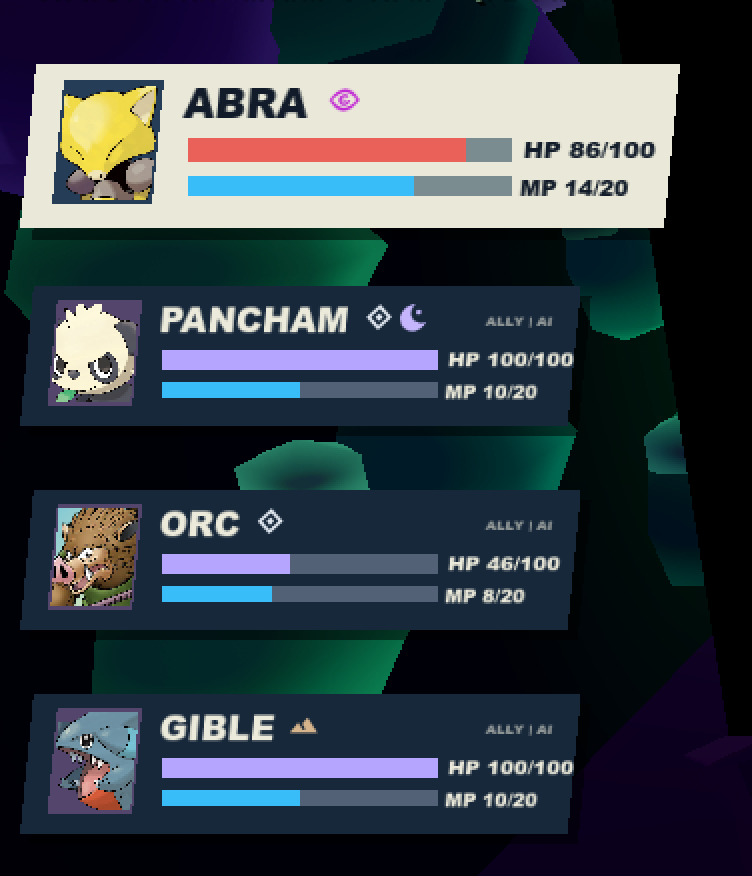
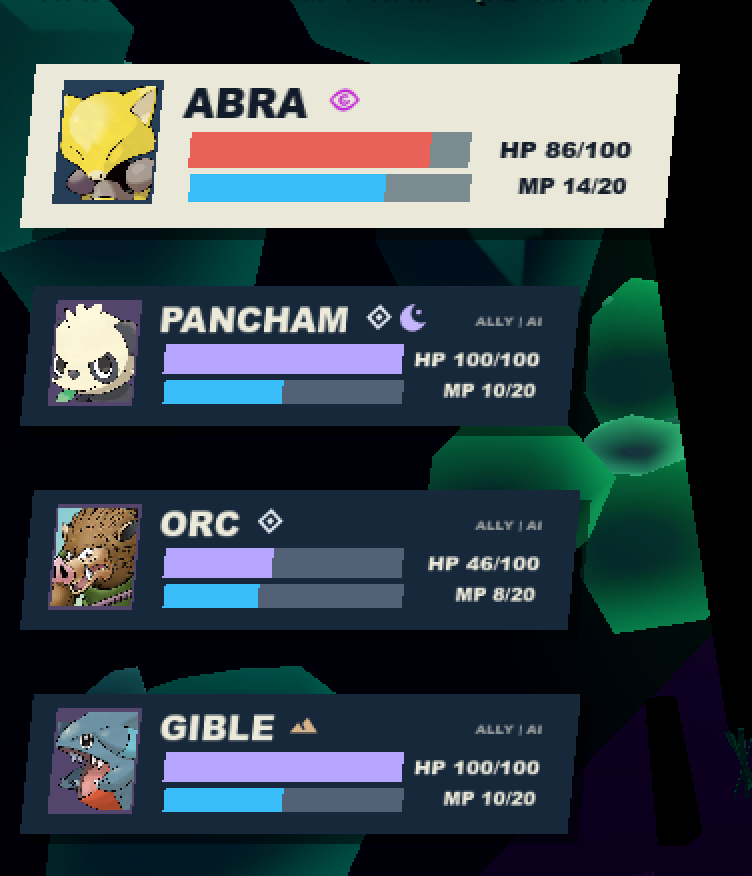
fix(exploration): fit overworld card values and align the text block to the card slant (D-1074)
The HP 100/100 value was wider than the old estimate and still crossed the slanted right edge. The HP/MP values are now right-aligned at x=310, so after the 8/82 body shear their right edge forms a line parallel to the card side with ~20 px of margin; HP 100/100 no longer leaks. The bars are now taller parallelograms (142x18 HP, 142x14 MP) drawn with the same body angle, and the text block's slanted right edge plus the element/name shear make the inner content follow the parallelogram. The card stays 330x104; Sugimori face crops, Gible demo card, Orc/DQT, battle/status/2D are untouched. HUD check and the isolated D-1063 audit pass; the main scene remains blocked by another session's tidal_surge_vfx parse errors. No push.

diff --git a/docs/decisoes/D-1074-cards-overworld-sugimori-barras-elementos.md b/docs/decisoes/D-1074-cards-overworld-sugimori-barras-elementos.md
@@ -33,10 +33,11 @@ Respostas às perguntas de esclarecimento:
 4. **Card fixo:** **330×104**, sem aumentar. O herói continua 1,0× e os aliados 0,85×. O Gible entra como **4º card demo** em (14, 394), 0,85×, com HP 100/100 e MP 10/20 (demo).
 5. **Barras e textos maiores:** preencher o espaço útil do card:
    - nome em **20 px** (era 18);
-   - HP: barra **162×12** (era 120×7), texto **12 px** (era 10);
-   - MP: barra **162×10** (era 120×5), texto **11 px** (era 9);
-   - textos de HP/MP à direita das barras, alinhados verticalmente com elas;
-   - **textos com o mesmo shear do corpo**: nome, ícones de elemento, `ALLY | AI` e números de HP/MP são desenhados sob `_body_shear()` (8 px em 82 px, pivô em y=18). As barras continuam horizontais; os textos ganham margem segura para não vazar da borda inclinada.
+   - HP: barra **142×18** (era 120×7), texto **12 px** (era 10);
+   - MP: barra **142×14** (era 120×5), texto **11 px** (era 9);
+   - valores de HP/MP **alinhados à direita em x=310**, formando uma borda direita inclinada paralela ao lado do card;
+   - **textos com o mesmo shear do corpo**: nome, ícones de elemento, `ALLY | AI` e números de HP/MP são desenhados sob `_body_shear()` (8 px em 82 px, pivô em y=18);
+   - **barras em paralelogramo**: desenhadas com `_slant` e o mesmo ângulo do card; a borda direita do bloco de texto e as barras ficam paralelas às laterais. Nada vaza da borda inclinada.
 6. **Ícones de elemento ao lado do nome:** até **2** ícones de 18×18 imediatamente após o nome, na mesma linha. Fonte: `res://assets/ui/icons/elements/*.svg`, com o mesmo mapa do battle (`FÍSICO→neutral`, `FOGO→fire`, `ÁGUA/GELO→water_ice`, `RAIO→electric`, `PSÍQUICO→psychic`, `VENENO→nature`, `SOM→sound`, `TERRA→earth`, `VENTO→wind`, `LUZ→light`, `TREVAS→dark`, `MYSTIC→mystic`). Cores de contraste: escuras no card creme do herói, claras no card azul dos aliados.
 7. **Elementos dos cards atuais:** ABRA = Psíquico; PANCHAM = Físico + Trevas; ORC = Físico (DQT, retrato atual); GIBLE = Terra.
 8. **O que não muda:** mini-mapa/bolinhas flat, Slime 0,49 m, NPCs sólidos D-1063, alerta “!”, câmera, batalha 3D, jogo 2D e regras.
@@ -45,8 +46,8 @@ Respostas às perguntas de esclarecimento:
 
 - **Sugimori com zoom no rosto:** Abra (crop 300,120–620,480), Pancham (300,40–980,800) e Gible (30,100–520,660) carregam no projeto principal; o card usa a região UV escolhida no mesmo `_slant_texture(pr.grow(-2.0), 5.0, ...)` das artes DQT.
 - **Orc/DQT:** `personagens/portraits/orc.png` (256×256) continua inteiro; nenhuma arte DQT foi trocada.
-- **Cards:** 330×104, herói 1,0×, aliados 0,85×. Nome 20 px; HP 162×12 com texto 12; MP 162×10 com texto 11; barras e textos ocupando a largura útil. Agora são **4 cards no party**: Abra, Pancham, Orc e Gible (Gible demo 100/100 + 10/20).
-- **Ângulo dos textos:** nome, ícones de elemento, `ALLY | AI` e HP/MP são desenhados com o mesmo shear do corpo (`8/82`, pivô y=18); as barras ficam horizontais. A margem direita foi aumentada (barra 162, texto em x=+10) para nenhum texto cruzar a borda inclinada.
+- **Cards:** 330×104, herói 1,0×, aliados 0,85×. Nome 20 px; HP 142×18 com texto 12; MP 142×14 com texto 11; valores alinhados à direita em x=310. Agora são **4 cards no party**: Abra, Pancham, Orc e Gible (Gible demo 100/100 + 10/20).
+- **Ângulo dos textos e blocos:** nome, ícones de elemento, `ALLY | AI` e HP/MP são desenhados com o mesmo shear do corpo (`8/82`, pivô y=18); os valores à direita formam uma borda inclinada paralela ao card. As barras de HP/MP são **paralelogramos** com o mesmo ângulo; nada cruza a borda (HP 100/100 fica com ~20 px de margem).
 - **Elementos:** Abra = Psíquico; Pancham = Físico + Trevas; Orc = Físico; Gible = Terra. Ícones 18×18 ao lado do nome, com o mesmo mapa do `BattleHud` (`FÍSICO→neutral`, `PSÍQUICO→psychic`, `TREVAS→dark`, `TERRA→earth`) e cores de contraste (escuras no creme, claras no azul).
 - **Prova:** captura isolada em `docs/referencias/exploracao/3d/murky_forest_hud_sugimori.png` e recorte dos quatro cards em `murky_forest_hud_sugimori_cards.png`; mostra Abra/Pancham/Gible com Sugimori em close, Orc com o retrato DQT, quatro cards no party, bolinhas flat e NPCs; os textos estão dentro da borda inclinada e com o mesmo shear do card.
 - **Verificação:** `--check-only` do HUD e carregamento dos assets no projeto principal; a captura foi feita no projeto isolado porque a janela do projeto principal ainda esbarra nos erros de parse de VFX de outra sessão. A cena principal em headless também está bloqueada no momento por erros de `tidal_surge_vfx.gd` de outra sessão; o HUD isolado e a auditoria D-1063 rodam sem erro.
@@ -65,11 +66,11 @@ Respostas às perguntas de esclarecimento:
 - **Janela do projeto principal:** a captura foi no isolado; o projeto principal carrega os assets, mas a janela e a cena headless ainda são bloqueadas pelos erros de VFX de outra sessão (`tidal_surge_vfx.gd`).
 - **Sugimori local:** a pasta `sugimori/` é ignorada pelo Git; se a arte faltar, o card cai no retrato antigo.
 - **Crop de rosto:** os retângulos são manuais; o Abra 3, Pancham 2 e Gible 2 foram escolhidos, mas não há detecção automática de rosto.
-- **Barras horizontais:** os textos recebem o shear do card, mas as barras de HP/MP continuam retas; se o criador quiser as barras inclinadas também, é uma decisão nova.
+- **Glifos:** o shear dos textos é o mesmo do card (8/82), então o ângulo dos glifos é leve; a borda direita do bloco e as barras são claramente paralelas. Se o criador quiser glifos mais inclinados, é uma decisão nova.
 - **Orc:** sem Sugimori; mantém o retrato DQT.
 - **Gible na party real:** o card é demo; não foi ligado a `GameState.party`.
 - **60 fps, mobile/web, outras resoluções** e batalha/status/menus (não tocados).
 
 ## Estado
 
-Teste implementado e corrigido no lab isolado; Abra/Pancham/Gible em close no rosto, textos com o shear do card e Gible como 4º card demo; prova em `murky_forest_hud_sugimori*`. Documentação registrada; commit local; **sem push**. Nada de combate/2D/DQT muda.
+Teste implementado e corrigido no lab isolado; Abra/Pancham/Gible em close no rosto, valores alinhados à direita com borda inclinada, barras em paralelogramo e Gible como 4º card demo; prova em `murky_forest_hud_sugimori*`. Documentação registrada; commit local; **sem push**. Nada de combate/2D/DQT muda.

diff --git a/docs/decisoes/README.md b/docs/decisoes/README.md
@@ -430,7 +430,7 @@ Fontes: **Conversa** = o que o criador disse (frase literal entre aspas); **PROM
 - [D-1064 — Mini-mapa só com bolinhas: azul, branco e vermelho](D-1064-minimapa-bolinhas-azul-branco-vermelho.md) — **teste implementado**: remove o ícone; jogador/aliados azuis (aliados menores), NPCs brancos e inimigos vermelhos; bolinhas 12/8/10/10, sem textura; substitui o ícone/tamanhos da D-1027/D-1037; HUD de HP/MP e alerta continuam.
 - [D-1071 — Slime 0,35× menor no overworld](D-1071-slime-035x-menor-no-overworld.md) — **teste implementado** via nó `SlimeOverworldScaler`: só no lab da Murky Forest, modelo/cápsula/agente/sombra/tag do Slime em 0,35× (1,4→0,49 m; cápsula 0,49 m); batalha 3D, jogo 2D, party e regras intactos; lab de pedra D-1023 fica em 1,4 m como referência; HUD/mini-mapa inalterados.
 - [D-1072 — Bolinhas flat e HUD de HP/MP no estilo dos cartões de batalha](D-1072-bolinhas-flat-e-hud-cartoes-batalha.md) — **teste implementado** via nó `ExplorationBattleHud`: remove o contorno das bolinhas (`dots_flat=true`); cards 330×104 do `UnitCard` (hero creme, aliados azul-escuro 0,85×, retrato/nome/HP/MP) no canto esquerdo; 1 card no solo e 3 no party; ATB/Burst/status/tanque de MP ficam de fora; HP/MP demo.
-- [D-1074 — Cards do overworld: retratos Sugimori com zoom no rosto, barras/textos maiores e ícones de elemento](D-1074-cards-overworld-sugimori-barras-elementos.md) — **teste implementado e corrigido**: só os cards do overworld; Abra (opção 3), Pancham (2) e Gible (2) com close no rosto das artes Sugimori (mesmo método DQT; card 330×104); Gible como 4º card demo; Orc/DQT inteiro; HP 162×12 texto 12, MP 162×10 texto 11, nome 20; textos com o mesmo shear do card e sem vazar; ícones de elemento ao lado do nome; batalha/status/2D intactos; provas em `docs/referencias/exploracao/3d/murky_forest_hud_sugimori*`.
+- [D-1074 — Cards do overworld: retratos Sugimori com zoom no rosto, barras/textos maiores e ícones de elemento](D-1074-cards-overworld-sugimori-barras-elementos.md) — **teste implementado e corrigido**: só os cards do overworld; Abra (opção 3), Pancham (2) e Gible (2) com close no rosto das artes Sugimori (mesmo método DQT; card 330×104); Gible como 4º card demo; Orc/DQT inteiro; HP 142×18 texto 12, MP 142×14 texto 11, nome 20; valores à direita com borda inclinada, barras em paralelogramo e textos com o mesmo shear; sem vazar; ícones de elemento ao lado do nome; batalha/status/2D intactos; provas em `docs/referencias/exploracao/3d/murky_forest_hud_sugimori*`.
 - [D-1015 — Drain Spear: sincronia e coroa](D-1015-drain-spear-sincronia-e-coroa.md) — lança deita na chegada; disparo nos últimos 0,25 s; antecipação e espera voltam; coroa se separa, −25% opacidade.
 - [D-1016 — Drain Spear: lança à frente e ritmo](D-1016-drain-spear-lanca-a-frente-e-ritmo.md) — círculos 0,25 s; lança à frente, deita no prelúdio; contato pelo clipe; sem Dread no mid-range.
 - [D-1026 — Armored Bulk e a badge Armor](D-1026-armored-bulk-e-badge-armor.md) — Move genérico TERRA, 10 MP/1 ATB/SELF, wind-up instantâneo; badge ARMOR 8 s absorve o primeiro dano sem interrupção, anula efeitos de contato e knockback (exceto KO); Guard tem prioridade; VFX opção A; Orc e Cyclops agora (Pancham aprende por nível, fora por ora); pausa de 1,5 s; Armor continua contando durante o Guard.

diff --git a/docs/REGRAS_DO_JOGO.md b/docs/REGRAS_DO_JOGO.md
@@ -308,7 +308,7 @@ Registradas, **ainda não implementadas** (ver §13 para a ordem de trabalho).
 - **[D-1064] Mini-mapa só com bolinhas:** **teste implementado**: remove o ícone; jogador/aliados azuis (aliados menores), NPCs brancos e inimigos vermelhos; bolinhas 12/8/10/10, sem textura; substitui o ícone/tamanhos da D-1027/D-1037; HUD de HP/MP e alerta continuam.
 - **[D-1071] Slime 0,35× menor no overworld:** **teste implementado** via nó `SlimeOverworldScaler`: só no lab da Murky Forest, modelo/cápsula/agente/sombra/tag do Slime em 0,35× (1,4→0,49 m; cápsula 0,49 m); batalha 3D, jogo 2D, party e regras intactos; lab de pedra D-1023 fica em 1,4 m como referência; HUD/mini-mapa inalterados.
 - **[D-1072] Bolinhas flat e HUD de HP/MP no estilo dos cartões de batalha:** **teste implementado** via nó `ExplorationBattleHud`: remove o contorno das bolinhas (`dots_flat=true`); cards 330×104 do `UnitCard` (hero creme, aliados azul-escuro 0,85×, retrato/nome/HP/MP) no canto esquerdo; 1 card no solo e 3 no party; ATB/Burst/status/tanque de MP ficam de fora; HP/MP demo.
-- **[D-1074] Cards do overworld com Sugimori, zoom no rosto, barras/textos maiores e elementos:** **teste implementado e corrigido**: só os cards do overworld; Abra (opção 3), Pancham (2) e Gible (2) com close no rosto das artes Sugimori locais (mesmo método DQT; card 330×104, sem aumentar); Gible como 4º card demo; Orc/DQT mantém o retrato inteiro; HP 162×12 texto 12, MP 162×10 texto 11, nome 20; textos com o mesmo shear do card e sem vazar; ícones de elemento ao lado do nome; batalha/status/2D intactos; provas em `docs/referencias/exploracao/3d/murky_forest_hud_sugimori*`.
+- **[D-1074] Cards do overworld com Sugimori, zoom no rosto, barras/textos maiores e elementos:** **teste implementado e corrigido**: só os cards do overworld; Abra (opção 3), Pancham (2) e Gible (2) com close no rosto das artes Sugimori locais (mesmo método DQT; card 330×104, sem aumentar); Gible como 4º card demo; Orc/DQT mantém o retrato inteiro; HP 142×18 texto 12, MP 142×14 texto 11, nome 20; valores à direita com borda inclinada, barras em paralelogramo e textos com o mesmo shear; sem vazar; ícones de elemento ao lado do nome; batalha/status/2D intactos; provas em `docs/referencias/exploracao/3d/murky_forest_hud_sugimori*`.
 
 ### 14.2 Inimigos no mapa
 - **[GDD R8-Q5, R9-Q3]** Inimigos **visíveis** no mapa; **patrulham** e **perseguem** após detectar; **o contato inicia o combate 3D** (não a mera detecção).
